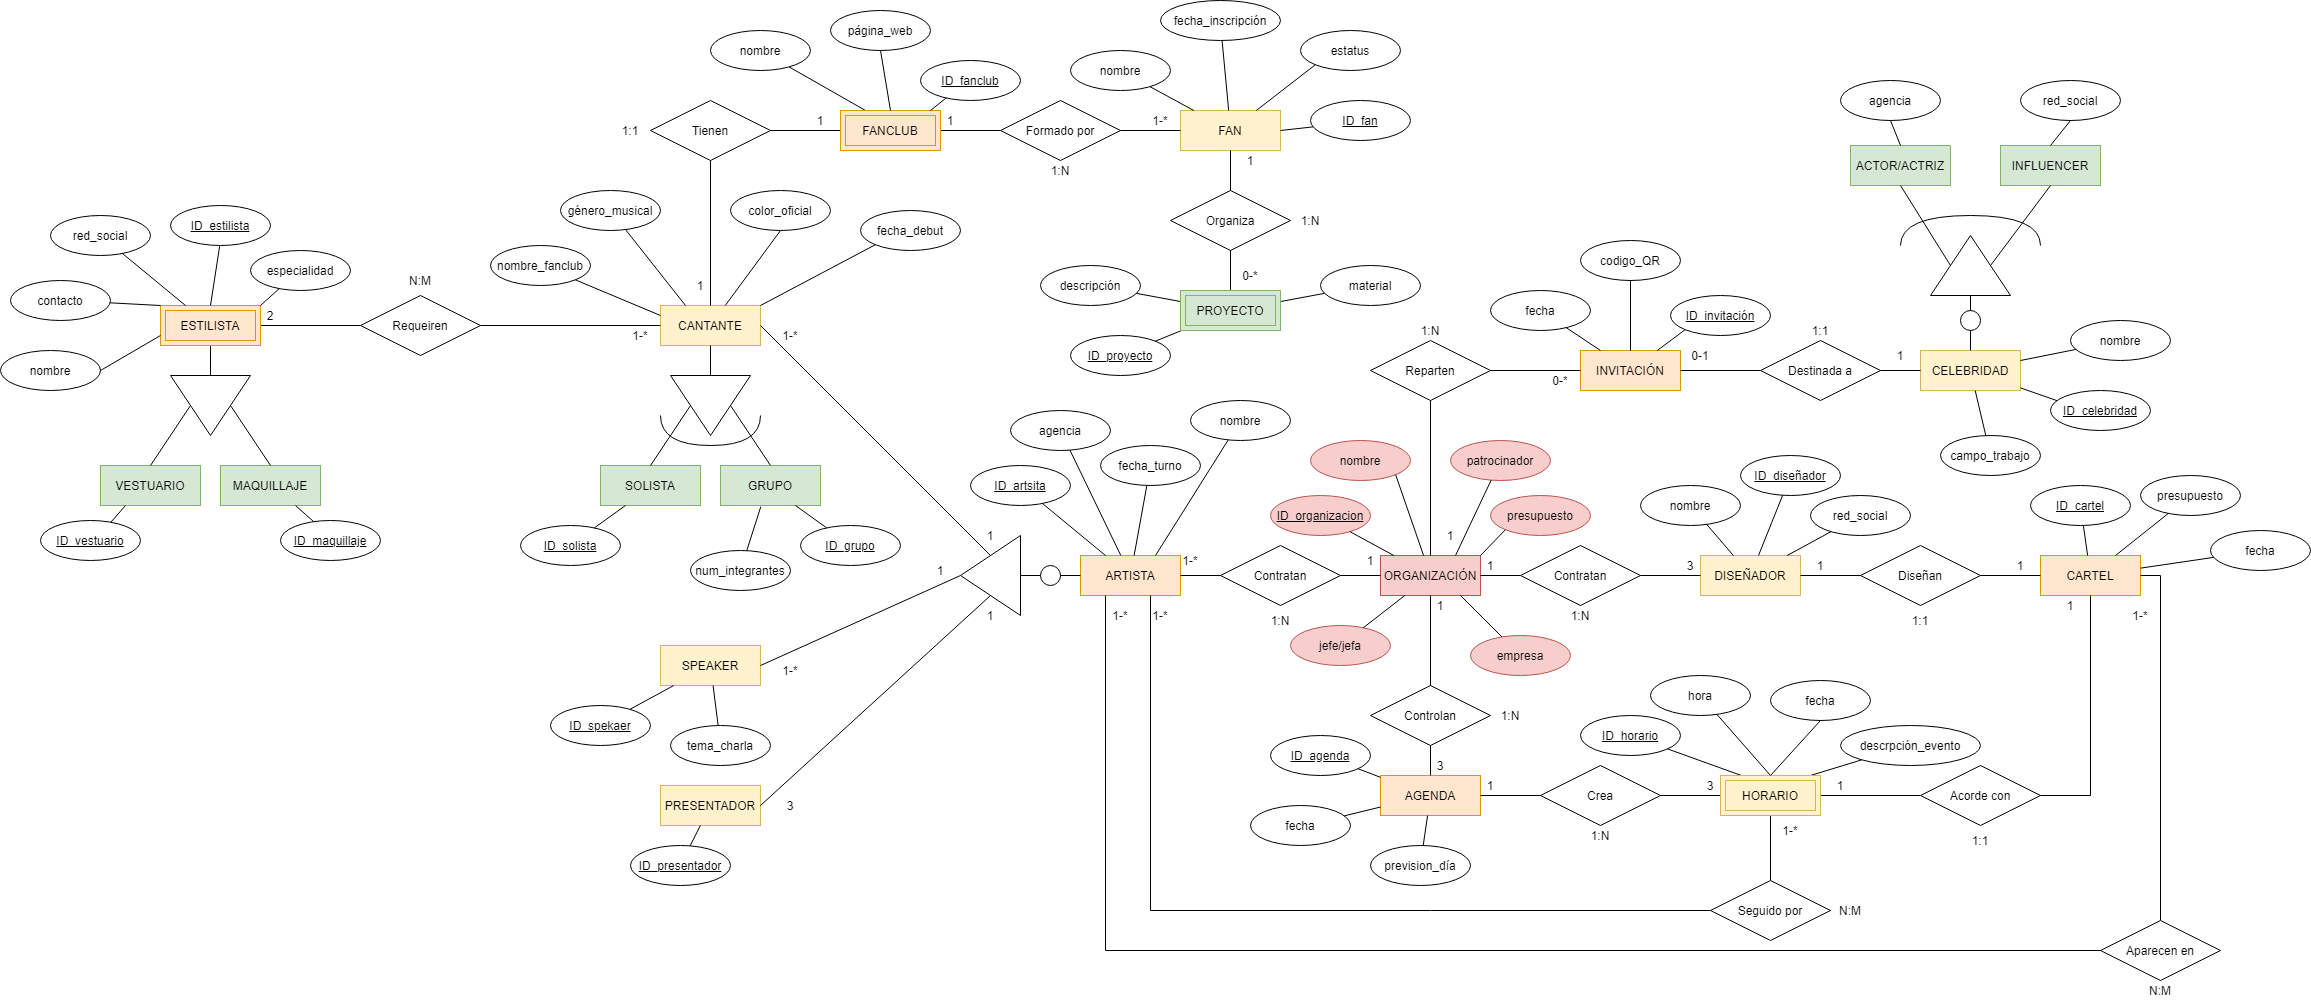
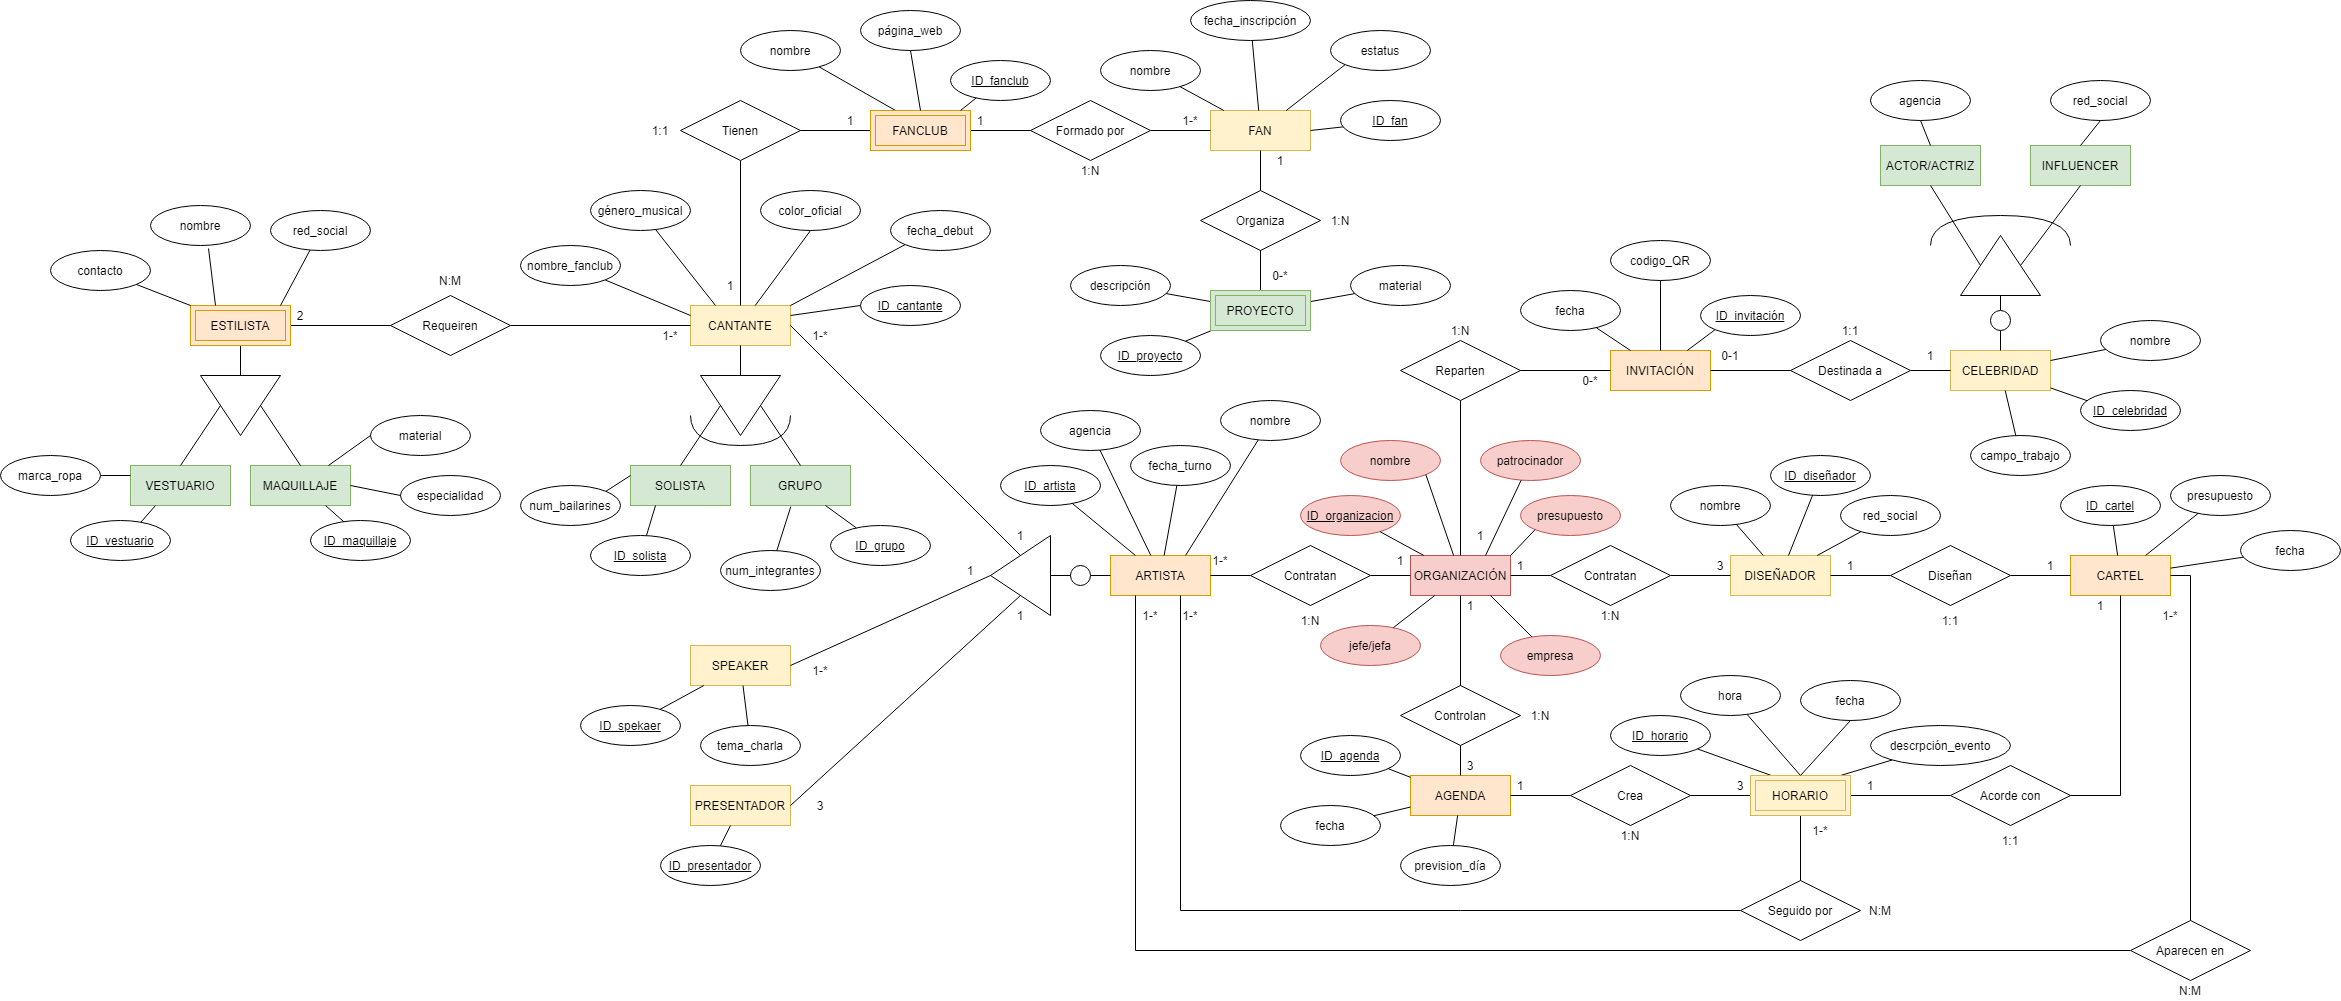
Actualizado archivos con nuevas especificaciones

diff --git a/Documentación/3.2-Normalizacion_Desnormalizacion.md b/Documentación/3.2-Normalizacion_Desnormalizacion.md
@@ -26,6 +26,12 @@
         
         GRUPO (ID_artista(PK), ID_cantante(PK), ID_grupo (PK), nombre, agencia, fecha_turno, género_musical, color_oficial, fecha_debut, nombre_fanclub, num_integrantes, ID_organizacion(FK), ID_maquillaje(FK), ID_vestuario(FK))
 
+        - **VESTUARIO** y **MAQUILLAJE**: Tendríamos que dividirlo en dos tablas para que no hubiera multivalor
+        
+        MAQUILLADOR (ID_maquillador, nombre, contacto, red_social, material, especialidad)
+        
+        VESTUARIO (ID_vestuario, nombre, contacto, red_social, marca_ropa)
+
         - **FANCLUB**: No hay atributos multivalor
         
         - **FAN**: Como un solo fan pertenece a un solo fanclub no habría multivalor.
@@ -71,7 +77,7 @@
         
         SPEAKER (ID_artista(PK), ID_speaker(PK), nombre, agencia, fecha_turno, ID_organizacion(FK), ID_cartel(FK), ID_horario(FK))
                         
-        SOLISTA (ID_artista(PK), ID_cantante(PK), ID_solista(PK), nombre, agencia, fecha_turno, género_musical, color_oficial, fecha_debut, nombre_fanclub, ID_organizacion(FK), ID_maquillaje(FK), ID_vestuario(FK), ID_cartel(FK), ID_horario(FK))
+        SOLISTA (ID_artista(PK), ID_cantante(PK), ID_solista(PK), nombre, agencia, fecha_turno, género_musical, color_oficial, fecha_debut, nombre_fanclub, num_bailarines, ID_organizacion(FK), ID_maquillaje(FK), ID_vestuario(FK), ID_cartel(FK), ID_horario(FK))
                         
         GRUPO (ID_artista(PK), ID_cantante(PK), ID_grupo (PK), nombre, agencia, fecha_turno, género_musical, color_oficial, fecha_debut, nombre_fanclub, num_integrantes, ID_organizacion(FK), ID_maquillaje(FK), ID_vestuario(FK), ID_cartel(FK), ID_horario(FK))
         
@@ -94,19 +100,25 @@
         
         SPEAKER (ID_speaker(PK), nombre, agencia, fecha_turno)
                                 
-        SOLISTA (ID_cantante(PK), ID_solista(PK), nombre, agencia, fecha_turno, género_musical, color_oficial, fecha_debut, nombre_fanclub, ID_maquillaje(FK), ID_vestuario(FK))
+        SOLISTA (ID_cantante(PK), ID_solista(PK), nombre, agencia, fecha_turno, género_musical, color_oficial, fecha_debut, nombre_fanclub, num_bailarines, ID_maquillaje(FK), ID_vestuario(FK))
                                 
         GRUPO (ID_cantante(PK), ID_grupo (PK), nombre, agencia, fecha_turno, género_musical, color_oficial, fecha_debut, nombre_fanclub, num_integrantes, ID_maquillaje(FK), ID_vestuario(FK))
                 
         PRESENTADOR (ID_presentador(PK), nombre, agencia, fecha_turno)
 
-        - **VESTUARIO** y **MAQUILLAJE**: Serían las mismas dependencias.
+        - **SOLISTA** y **GRUPO**: Dependerían de su ID_cantante.
         
-        ID_estilista -> ID_maquillador, ID_vestuario
+        ID_cantante -> ID_solista, ID_grupo
         
-        Podríamos poner una tabla única de estilistas y poner el atributo de ID como opcional, como en el caso anterior.
+        Para solucionarlo pondríamos en una nueva tabla **CANTANTE** todos los atributos en común y luego las conectaríamos por sus IDs.
         
-        ESTILISTA (ID_estilista(PK), nombre, contacto, red_social, especialidad, ID_vestuario(PK), ID_maquillador(PK))
+        CANTANTE(ID_cantante(PK), nombre, agencia, fecha_turno, género_musical, color_oficial, fecha_debut, nombre_fanclub, ID_maquillaje(FK), ID_vestuario(FK))
+        
+        SOLISTA (ID_solista(PK), num_bailarines, ID_cantante(FK))
+                                        
+        GRUPO (ID_grupo (PK), num_integrantes, ID_cantante(FK))
+                  
+        - **VESTUARIO** y **MAQUILLAJE**: No tendrían dependencias.
         
         - **FANCLUB**, **FAN** y **PROYECTO**: No tienen dependencias funcionales.
         
@@ -157,13 +169,17 @@
         
         CHARLA (ID_speaker(PK)(FK), tema_charla(PK))
                                 
-        SOLISTA (ID_cantante(PK), ID_solista(PK), nombre, agencia, fecha_turno, género_musical, color_oficial, fecha_debut, nombre_fanclub, ID_maquillaje(FK), ID_vestuario(FK))
-                                
-        GRUPO (ID_cantante(PK), ID_grupo (PK), nombre, agencia, fecha_turno, género_musical, color_oficial, fecha_debut, nombre_fanclub, num_integrantes, ID_maquillaje(FK), ID_vestuario(FK))
+        CANTANTE(ID_cantante(PK), nombre, agencia, fecha_turno, género_musical, color_oficial, fecha_debut, nombre_fanclub, ID_maquillaje(FK), ID_vestuario(FK))
                 
+        SOLISTA (ID_solista(PK), num_bailarines, ID_cantante(FK))
+                                                
+        GRUPO (ID_grupo (PK), num_integrantes, ID_cantante(FK))  
+            
         PRESENTADOR (ID_presentador(PK), nombre, agencia, fecha_turno)
         
-        ESTILISTA (ID_estilista(PK), nombre, contacto, red_social, especialidad, ID_vestuario(PK), ID_maquillador(PK))
+        MAQUILLADOR (ID_maquillador, nombre, contacto, red_social, material, especialidad)
+                
+        VESTUARIO (ID_vestuario, nombre, contacto, red_social, marca_ropa)
         
         FANCLUB (ID_fanclub(PK), nombre, página_web, ID_cantante(FK))
         

diff --git a/Documentación/1-Introducción.md b/Documentación/1-Introducción.md
@@ -3,14 +3,15 @@
 El área artística está a cargo de la organización del festival. Supongamos que se celebra en tres días consecutivos, de 09:00AM a 00:00AM.
 La organización contratará varios grupos de creadores para las actuaciones que habrá. Estos serán artistas, speakers y presentadores.
 
-- La organización unirá todas la entidades, por lo que habrá que identificarla.
+- La organización unirá todas las entidades, por lo que habrá que identificarla y darle atributos propios.
 
-- Los artistas son músicos que bien pueden ser solistas o bien pueden ser un grupo. Se sabrá su id de solista o grupo, nombre, nombre de fanclub, 
-color oficial, fecha de debut, en caso de grupos número de integrantes, género de música al que pertenecen y la agencia que los maneja. Solo pueden 
-actuar en un turno, es decir, no tienen más de una fecha asignada para actuar. Aparte, los artistas tendrán con ellos un estilista de cada categoria, que se 
+- Los artistas son cantantes que bien pueden ser solistas o bien pueden ser un grupo. Se sabrá su id de solista o grupo, nombre, nombre de fanclub, 
+color oficial, fecha de debut, en caso de grupos número de integrantes y en caso de solistas podrán tener x número de bailarines, género de música 
+al que pertenecen y la agencia que los maneja. 
+Solo pueden actuar en un turno, es decir, no tienen más de una fecha asignada para actuar. Aparte, los artistas tendrán con ellos un estilista de cada categoria, que se 
 encargaran del vestuario y maquillaje, y sus respectivos fanclubs.
 Los fanclubs cuentan con proyectos realizados por los propios fans, cuentan con una descripción y material que se utilizará en ellos (por ejemplo 
-globos, banners…). Los fans también estarán identificados.
+globos, banners…). Los fans también estarán identificados. Los proyectos aunque haya varios fans implicados, solo uno de ellos será el líder del proyecto en cuestión.
 
 Los speakers darán charlas entre medias de las actuaciones de los artistas. Cada speaker o grupo de speakers hablará de un tema en concreto y 
 será esta charla grabada para luego publicarla como un podscast. Estas charlas están guiadas por un presentador, este será exclusivo para cada día, 

diff --git a/Documentación/2.1-Especificaciones.md b/Documentación/2.1-Especificaciones.md
@@ -9,12 +9,13 @@ area artistica y la marca patrocinadora.
 ID de artistas, la fecha en la que actuaran, su agencia y su nombre (ya sean solistas, grupos…). Los **ARTISTAS** solo pueden pertenecer a un campo 
 derivado de la relación ISA que se forma. 
     - Los **CANTANTES** derivaran también en **SOLISTAS** o **GRUPOS**. Los atributos generales serán género musical, color oficial, 
-    fecha de debut y el nombre de fanclub que tengan. Los **SOLISTAS** tendrán una ID de solistas y los GRUPOS también tendrán su ID de grupo, 
+    fecha de debut y el nombre de fanclub que tengan. Los **SOLISTAS** tendrán una ID de solistas y a sus bailarines, y los GRUPOS también tendrán su ID de grupo, 
     pero tendrán un atributo extra de número de miembros en él.
 	Derivado de los **CANTANTES** estarán los **ESTILISTAS** y **FANCLUB**:
     - Los **ESTILISTAS** dependen de los **CANTANTES**. Estos pueden atender a varios artistas o pueden ser exclusivos de uno. Tendrán como 
-    atributos su ID, nombre, red social, especialidad y contacto. Los **ESTILISTAS** derivan en otra relación ISA, podrán ser de **VESTUARIO** y 
-    **MAQUILLAJE** con sus respectivas ID de atributo. Un solo **ESTILISTA** puede pertenecer a ambos campos. 
+    atributos su nombre, red social, especialidad y contacto. Los **ESTILISTAS** derivan en otra relación ISA, podrán ser de **VESTUARIO** y 
+    **MAQUILLAJE** con sus respectivas ID de atributo. Un solo **ESTILISTA** puede pertenecer a ambos campos.
+    Los de **VESTUARIO** trabajan con una marca de ropa en concreta y los **MAQUILLADORES** tienen una especialidad y su material personal.
     - Los **FANCLUBS** también dependen de los **CANTANTES**. Estos tienen como atributo el ID, nombre y web oficial, están formados por **FANS**. 
         - Los **FANS** tienen como atributo ID de fan, nombre, fecha de inscripción al club y un estatus (usuario de bronce, plata, oro, platino). 
         Los **FANS** organizan **PROYECTOS** para los conciertos.

diff --git a/Documentación/3.1-Modelo_Relacional.md b/Documentación/3.1-Modelo_Relacional.md
@@ -15,11 +15,11 @@ SOLISTA (ID_artista(PK), ID_cantante(PK), ID_solista(PK), nombre, agencia, fecha
 
 GRUPO (ID_artista(PK), ID_cantante(PK), ID_grupo (PK), nombre, agencia, fecha_turno, género_musical, color_oficial, fecha_debut, nombre_fanclub, num_integrantes, ID_organizacion(FK))
 
-ESTILISTAS_CANTANTE (ID_cantante(FK), ID_estilista(FK))
+ESTILISTAS_CANTANTE (ID_cantante(FK), ID_vestuario(FK), ID_maquillador(FK))
 
-VESTUARIO (ID_vestuario(PK), ID_estilista(PK), nombre, contacto, red_social, especialidad)
+VESTUARIO (ID_vestuario(PK), nombre, contacto, red_social, marca_ropa)
 
-MAQUILLAJE (ID_maquillador(PK), ID_estilista(PK), nombre, contacto, red_social, especialidad)
+MAQUILLAJE (ID_maquillador(PK), nombre, contacto, red_social, especialidad, material)
 
 FANCLUB (ID_fanclub(PK), nombre, página_web, ID_cantante(FK))
 
